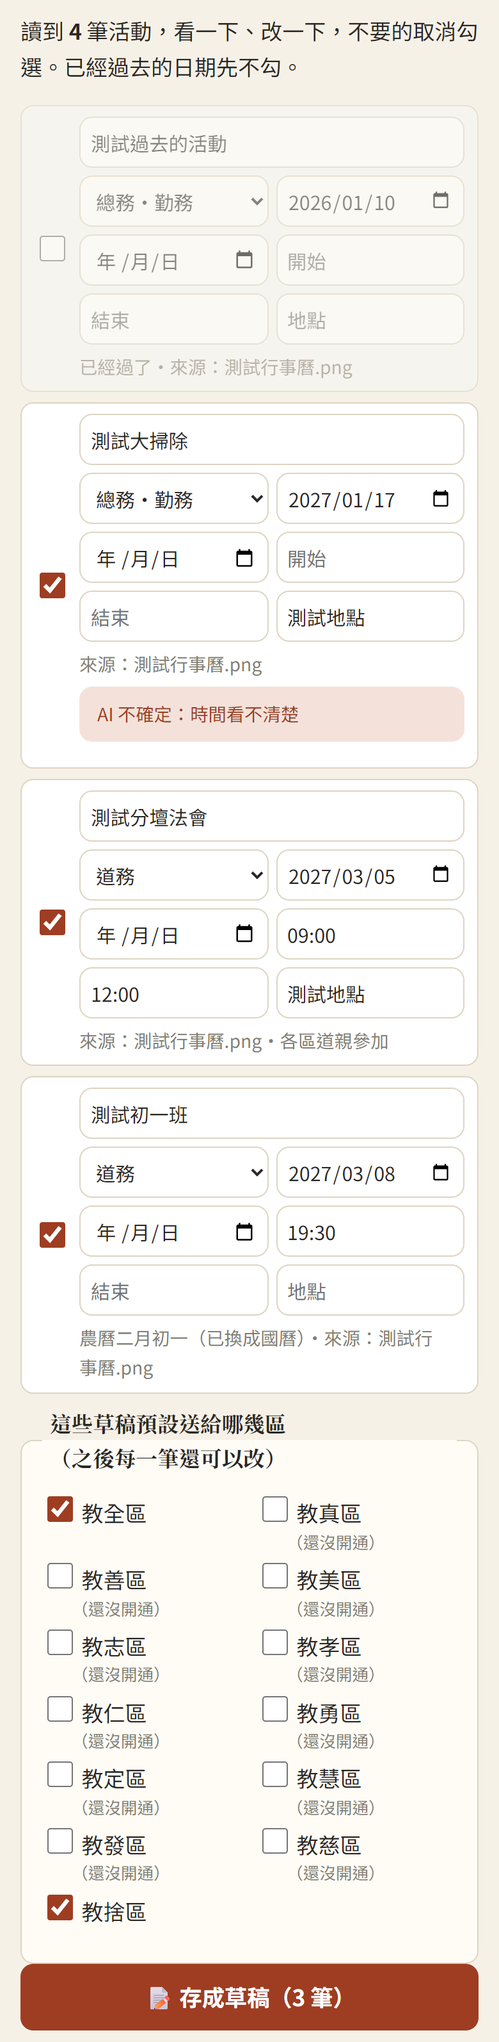
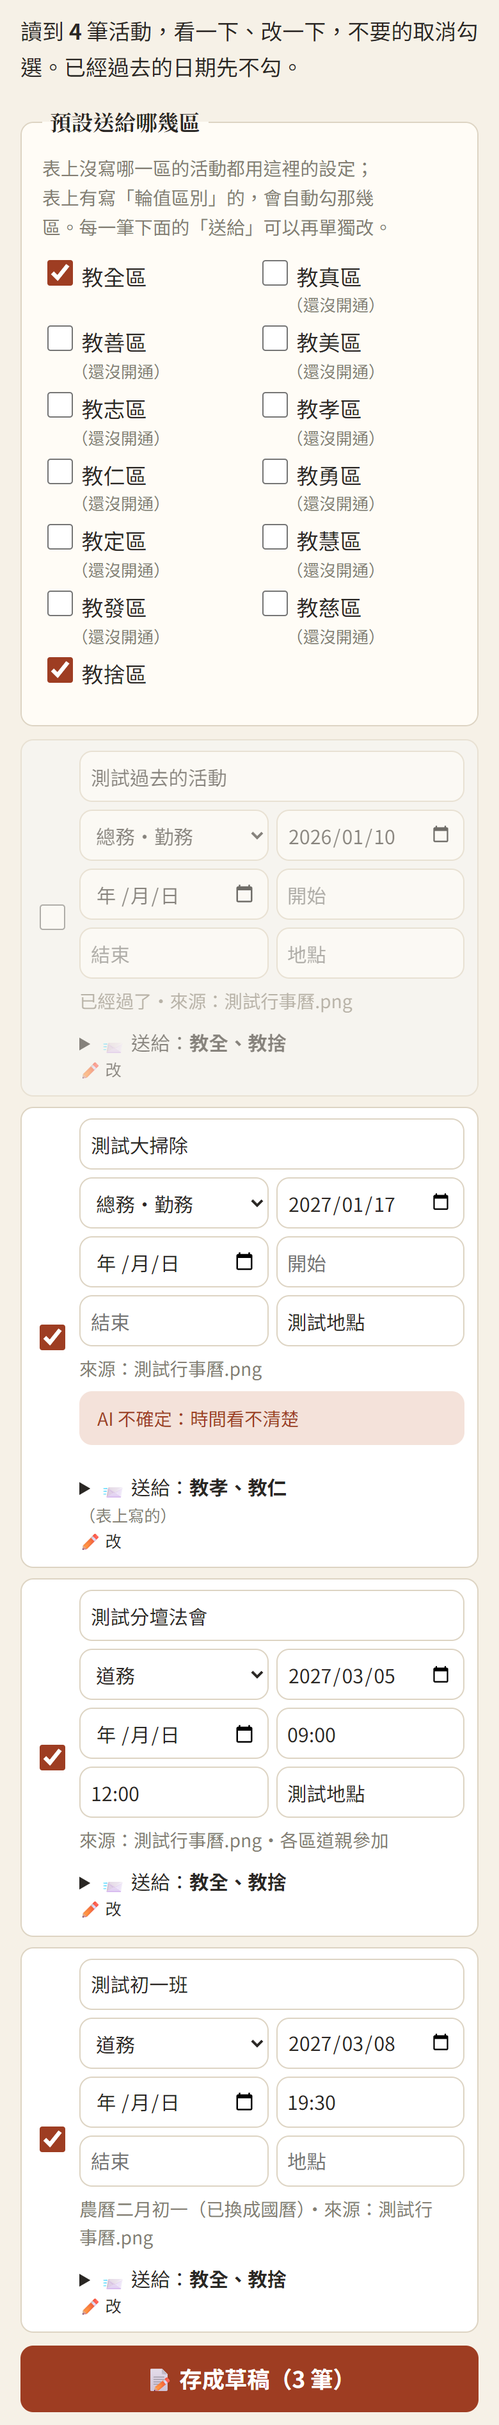
分壇從檔案匯入：每筆可選送給哪幾區，表上有寫輪值區別的自動勾；預設選區移到清單上面

diff --git a/js/admin-hq.js b/js/admin-hq.js
@@ -327,6 +327,20 @@
       <p class="hint">檔案會交給 Google 的 AI 讀（和「從照片新增」一樣）。AI 可能看錯，日期、時間請一定要看過。人名、電話不會整理進來。</p>
       <div data-progress></div>
       <div data-rows></div>`;
+    /** AI 寫的區名（「仁孝」「教志區」「全部」）→ 區代號；「仁孝」這種兩個字的，一個字一區 */
+    function regionsOf(names) {
+      const out = new Set();
+      (Array.isArray(names) ? names : []).forEach((s) => {
+        s = String(s || '').replace(/\s/g, '');
+        if (!s) return;
+        if (/全部|各區/.test(s)) { data.targets.forEach((t) => out.add(t.code)); return; }
+        const full = data.targets.find((t) => s === t.name || s + '區' === t.name || '教' + s + '區' === t.name || '教' + s === t.name);
+        if (full) { out.add(full.code); return; }
+        s.replace(/[教區]/g, '').split('').forEach((ch) => { const t = data.targets.find((y) => y.name === '教' + ch + '區'); if (t) out.add(t.code); });
+      });
+      return data.targets.map((t) => t.code).filter((c) => out.has(c));
+    }
+    const regionNames = (codes) => (codes.length === data.targets.length ? '全部 ' + codes.length + ' 區' : codes.length ? data.targets.filter((t) => codes.indexOf(t.code) !== -1).map((t) => t.name.replace(/區$/, '')).join('、') : '還沒選');
     let files = [];
     const fin = body.querySelector('[data-files]');
     fin.addEventListener('change', () => {
@@ -365,7 +379,8 @@
         if (!start && x.lunarDate) start = lunarToSolar(x.lunarDate, x.lunarYear);
         const end = /^\d{4}-\d{2}-\d{2}$/.test(x.end || '') && x.end >= start ? x.end : start;
         const tt = (v) => { const t = Fmt.parseTime(String(v || '')); return t || ''; };
-        return { title: String(x.title || '').trim().slice(0, 40), category: ['勤務', '道務', '教育'].indexOf(x.category) !== -1 ? x.category : '勤務', start, end, startTime: tt(x.startTime), endTime: tt(x.endTime), location: String(x.location || '').slice(0, 40), description: String(x.description || '').slice(0, 2000), lunar: x.lunarDate || '', uncertain: Array.isArray(x.uncertain) ? x.uncertain.join('；') : '', source: x.source };
+        const named = regionsOf(x.regions);
+        return { regions: named.length ? named : st.regions.slice(), byAi: named.length > 0, title: String(x.title || '').trim().slice(0, 40), category: ['勤務', '道務', '教育'].indexOf(x.category) !== -1 ? x.category : '勤務', start, end, startTime: tt(x.startTime), endTime: tt(x.endTime), location: String(x.location || '').slice(0, 40), description: String(x.description || '').slice(0, 2000), lunar: x.lunarDate || '', uncertain: Array.isArray(x.uncertain) ? x.uncertain.join('；') : '', source: x.source };
       }).filter((x) => { const k = x.title + '|' + x.start; if (!x.title || seen.has(k)) return false; seen.add(k); return true; })
         .sort((a, b) => (a.start || '9999').localeCompare(b.start || '9999'));
       rows.forEach((x) => { x.pick = !!x.start && x.start >= today; });
@@ -378,6 +393,11 @@
       if (!rows.length) { box.innerHTML = ''; return; }
       const n = rows.filter((x) => x.pick).length;
       box.innerHTML = `
+        <fieldset class="form-block">
+          <legend>預設送給哪幾區</legend>
+          <p class="hint">表上沒寫哪一區的活動都用這裡的設定；表上有寫「輪值區別」的，會自動勾那幾區。每一筆下面的「送給」可以再單獨改。</p>
+          <div class="hq-regions">${data.targets.map((t) => `<label class="check"><input type="checkbox" data-region="${t.code}"${st.regions.indexOf(t.code) !== -1 ? ' checked' : ''}> ${esc(t.name)}${t.open ? '' : '<small class="muted">（還沒開通）</small>'}</label>`).join('')}</div>
+        </fieldset>
         <div class="hq-import-list">${rows.map((x, i) => `
           <div class="hq-import-row${x.pick ? '' : ' is-off'}${x.start && x.start < today ? ' is-past' : ''}" data-i="${i}">
             <label class="check"><input type="checkbox" data-k="pick"${x.pick ? ' checked' : ''}></label>
@@ -393,12 +413,12 @@
               </div>
               <small class="muted">${x.lunar ? '農曆' + esc(x.lunar) + (x.start ? '（已換成國曆）' : '（換不出國曆，請自己填日期）') + '・' : ''}${x.start && x.start < today ? '已經過了・' : ''}來源：${esc(x.source)}${x.description ? '・' + esc(x.description.slice(0, 80)) : ''}</small>
               ${x.uncertain ? `<small class="form-error">AI 不確定：${esc(x.uncertain)}</small>` : ''}
+              <details class="hq-import-to"${x.regions.length ? '' : ' open'}>
+                <summary>📨 送給：<strong${x.regions.length ? '' : ' class="form-error"'}>${esc(regionNames(x.regions))}</strong>${x.byAi && !x.custom ? '<small class="muted">（表上寫的）</small>' : ''} <small>✏ 改</small></summary>
+                <div class="hq-regions">${data.targets.map((t) => `<label class="check"><input type="checkbox" data-row-region="${t.code}"${x.regions.indexOf(t.code) !== -1 ? ' checked' : ''}> ${esc(t.name)}</label>`).join('')}</div>
+              </details>
             </div>
           </div>`).join('')}</div>
-        <fieldset class="form-block">
-          <legend>這些草稿預設送給哪幾區（之後每一筆還可以改）</legend>
-          <div class="hq-regions">${data.targets.map((t) => `<label class="check"><input type="checkbox" data-region="${t.code}"${st.regions.indexOf(t.code) !== -1 ? ' checked' : ''}> ${esc(t.name)}${t.open ? '' : '<small class="muted">（還沒開通）</small>'}</label>`).join('')}</div>
-        </fieldset>
         <div class="form-error" data-error hidden></div>
         <button type="button" class="btn btn-primary btn-block" data-save${n ? '' : ' disabled'}>📝 存成草稿（${n} 筆）</button>`;
       box.querySelectorAll('[data-i]').forEach((row) => {
@@ -409,14 +429,28 @@
           x[k] = el.value;
           if ((k === 'startTime' || k === 'endTime') && el.value) { const t = Fmt.parseTime(el.value); if (t) { x[k] = t; el.value = t; } }
         }));
+        row.querySelectorAll('[data-row-region]').forEach((el) => el.addEventListener('change', () => {
+          x.regions = [...row.querySelectorAll('[data-row-region]:checked')].map((y) => y.dataset.rowRegion);
+          x.custom = true;
+          const s = row.querySelector('.hq-import-to summary strong');
+          s.textContent = regionNames(x.regions);
+          s.className = x.regions.length ? '' : 'form-error';
+          const m = row.querySelector('.hq-import-to summary .muted'); if (m) m.remove();
+        }));
       });
-      box.querySelectorAll('[data-region]').forEach((el) => el.addEventListener('change', () => { st.regions = [...box.querySelectorAll('[data-region]:checked')].map((y) => y.dataset.region); }));
+      box.querySelectorAll('[data-region]').forEach((el) => el.addEventListener('change', () => {
+        st.regions = [...box.querySelectorAll('[data-region]:checked')].map((y) => y.dataset.region);
+        rows.forEach((x) => { if (!x.byAi && !x.custom) x.regions = st.regions.slice(); });
+        const y = scrollY; drawRows(); scrollTo(0, y);
+      }));
       box.querySelector('[data-save]').addEventListener('click', async () => {
         const err = box.querySelector('[data-error]');
         err.hidden = true;
-        const items = rows.filter((x) => x.pick).map((x) => ({ title: x.title, category: x.category, start: x.start, end: x.end || x.start, startTime: x.startTime, endTime: x.endTime, location: x.location, description: x.description, positions: [], quotaMode: 'none', regions: st.regions, source: x.source }));
+        const items = rows.filter((x) => x.pick).map((x) => ({ title: x.title, category: x.category, start: x.start, end: x.end || x.start, startTime: x.startTime, endTime: x.endTime, location: x.location, description: x.description, positions: [], quotaMode: 'none', regions: x.regions, source: x.source }));
         const noDate = items.filter((x) => !x.start);
         if (noDate.length) { err.textContent = '有 ' + noDate.length + ' 筆沒有日期，請填日期或取消勾選：' + noDate.map((x) => x.title).join('、'); err.hidden = false; return; }
+        const noRegion = items.filter((x) => !x.regions.length);
+        if (noRegion.length) { err.textContent = '有 ' + noRegion.length + ' 筆還沒選送給哪幾區：' + noRegion.map((x) => x.title).join('、'); err.hidden = false; return; }
         Busy.show('存成草稿中⋯');
         try {
           const r = await Api.admin('hqSaveDrafts', { items });

diff --git a/index.html b/index.html
@@ -23,7 +23,7 @@
   <link rel="preconnect" href="https://fonts.googleapis.com">
   <link rel="preconnect" href="https://fonts.gstatic.com" crossorigin>
   <link href="https://fonts.googleapis.com/css2?family=Noto+Sans+TC:wght@400;500;700&family=Noto+Serif+TC:wght@600;700&display=swap" rel="stylesheet">
-  <link rel="stylesheet" href="css/app.css?v=20261122p">
+  <link rel="stylesheet" href="css/app.css?v=20261122q">
   <script>try { var t = localStorage.getItem('duty-calendar:text-size'); if (t === 'l' || t === 'xl') document.documentElement.classList.add('text-' + t); } catch (e) {}</script>
 </head>
 <body class="splash-on">
@@ -118,67 +118,67 @@
   <script src="https://cdn.jsdelivr.net/npm/fullcalendar@6.1.21/index.global.min.js"></script>
   <script src="https://cdn.jsdelivr.net/npm/@fullcalendar/core@6.1.21/locales/zh-tw.global.min.js"></script>
   <!-- 改了 js、css 後把 ?v= 的日期換新，手機才不會用到舊的檔案（GitHub Pages 會快取 10 分鐘） -->
-  <script src="js/site.js?v=20261122p"></script>
-  <script src="js/region.js?v=20261122p"></script>
-  <script src="js/config.js?v=20261122p"></script>
-  <script src="js/api.js?v=20261122p"></script>
-  <script src="js/format.js?v=20261122p"></script>
-  <script src="js/member-suggest.js?v=20261122p"></script>
-  <script src="js/member-file.js?v=20261122p"></script>
-  <script src="js/family.js?v=20261122p"></script>
-  <script src="js/lunar-util.js?v=20261122p"></script>
-  <script src="js/date-list.js?v=20261122p"></script>
-  <script src="js/share.js?v=20261122p"></script>
-  <script src="js/addcal.js?v=20261122p"></script>
-  <script src="js/duty-cache.js?v=20261122p"></script>
-  <script src="js/thanks-board.js?v=20261122p"></script>
-  <script src="js/calendar.js?v=20261122p"></script>
-  <script src="js/confirm.js?v=20261122p"></script>
-  <script src="js/reschedule.js?v=20261122p"></script>
-  <script src="js/signup.js?v=20261122p"></script>
-  <script src="js/duty-images.js?v=20261122p"></script>
-  <script src="js/roster-grid.js?v=20261122p"></script>
-  <script src="js/grid-page.js?v=20261122p"></script>
-  <script src="js/grid-image.js?v=20261122p"></script>
-  <script src="js/thanks-image.js?v=20261122p"></script>
-  <script src="js/celebrate.js?v=20261122p"></script>
-  <script src="js/duty.js?v=20261122p"></script>
-  <script src="js/mine.js?v=20261122p"></script>
-  <script src="js/venue-hours.js?v=20261122p"></script>
-  <script src="js/venue.js?v=20261122p"></script>
-  <script src="js/push.js?v=20261122p"></script>
-  <script src="js/admin.js?v=20261122p"></script>
-  <script src="js/admin-pages.js?v=20261122p"></script>
-  <script src="js/draft-editor.js?v=20261122p"></script>
-  <script src="js/group-fair.js?v=20261122p"></script>
-  <script src="js/admin-duties.js?v=20261122p"></script>
-  <script src="js/admin-accounts.js?v=20261122p"></script>
-  <script src="js/admin-site.js?v=20261122p"></script>
-  <script src="js/region-setup.js?v=20261122p"></script>
-  <script src="js/import-parse.js?v=20261122p"></script>
-  <script src="js/admin-import.js?v=20261122p"></script>
-  <script src="js/admin-people.js?v=20261122p"></script>
-  <script src="js/admin-hq.js?v=20261122p"></script>
-  <script src="js/stats-calc.js?v=20261122p"></script>
-  <script src="js/edu-stats.js?v=20261122p"></script>
-  <script src="js/admin-goals.js?v=20261122p"></script>
-  <script src="js/admin-venue.js?v=20261122p"></script>
-  <script src="js/admin-push.js?v=20261122p"></script>
-  <script src="js/tutorial.js?v=20261122p"></script>
-  <script src="js/help.js?v=20261122p"></script>
-  <script src="js/rollcall.js?v=20261122p"></script>
-  <script src="js/stats-export.js?v=20261122p"></script>
-  <script src="js/repair.js?v=20261122p"></script>
-  <script src="js/activity-report.js?v=20261122p"></script>
-  <script src="js/member-stats.js?v=20261122p"></script>
-  <script src="js/admin-stats.js?v=20261122p"></script>
-  <script src="js/admin-report.js?v=20261122p"></script>
-  <script src="js/admin-recent-signups.js?v=20261122p"></script>
-  <script src="js/admin-notice.js?v=20261122p"></script>
-  <script src="js/admin-notify.js?v=20261122p"></script>
-  <script src="js/history-parse.js?v=20261122p"></script>
-  <script src="js/admin-history.js?v=20261122p"></script>
-  <script src="js/easy-mode.js?v=20261122p"></script>
-  <script src="js/app.js?v=20261122p"></script>
+  <script src="js/site.js?v=20261122q"></script>
+  <script src="js/region.js?v=20261122q"></script>
+  <script src="js/config.js?v=20261122q"></script>
+  <script src="js/api.js?v=20261122q"></script>
+  <script src="js/format.js?v=20261122q"></script>
+  <script src="js/member-suggest.js?v=20261122q"></script>
+  <script src="js/member-file.js?v=20261122q"></script>
+  <script src="js/family.js?v=20261122q"></script>
+  <script src="js/lunar-util.js?v=20261122q"></script>
+  <script src="js/date-list.js?v=20261122q"></script>
+  <script src="js/share.js?v=20261122q"></script>
+  <script src="js/addcal.js?v=20261122q"></script>
+  <script src="js/duty-cache.js?v=20261122q"></script>
+  <script src="js/thanks-board.js?v=20261122q"></script>
+  <script src="js/calendar.js?v=20261122q"></script>
+  <script src="js/confirm.js?v=20261122q"></script>
+  <script src="js/reschedule.js?v=20261122q"></script>
+  <script src="js/signup.js?v=20261122q"></script>
+  <script src="js/duty-images.js?v=20261122q"></script>
+  <script src="js/roster-grid.js?v=20261122q"></script>
+  <script src="js/grid-page.js?v=20261122q"></script>
+  <script src="js/grid-image.js?v=20261122q"></script>
+  <script src="js/thanks-image.js?v=20261122q"></script>
+  <script src="js/celebrate.js?v=20261122q"></script>
+  <script src="js/duty.js?v=20261122q"></script>
+  <script src="js/mine.js?v=20261122q"></script>
+  <script src="js/venue-hours.js?v=20261122q"></script>
+  <script src="js/venue.js?v=20261122q"></script>
+  <script src="js/push.js?v=20261122q"></script>
+  <script src="js/admin.js?v=20261122q"></script>
+  <script src="js/admin-pages.js?v=20261122q"></script>
+  <script src="js/draft-editor.js?v=20261122q"></script>
+  <script src="js/group-fair.js?v=20261122q"></script>
+  <script src="js/admin-duties.js?v=20261122q"></script>
+  <script src="js/admin-accounts.js?v=20261122q"></script>
+  <script src="js/admin-site.js?v=20261122q"></script>
+  <script src="js/region-setup.js?v=20261122q"></script>
+  <script src="js/import-parse.js?v=20261122q"></script>
+  <script src="js/admin-import.js?v=20261122q"></script>
+  <script src="js/admin-people.js?v=20261122q"></script>
+  <script src="js/admin-hq.js?v=20261122q"></script>
+  <script src="js/stats-calc.js?v=20261122q"></script>
+  <script src="js/edu-stats.js?v=20261122q"></script>
+  <script src="js/admin-goals.js?v=20261122q"></script>
+  <script src="js/admin-venue.js?v=20261122q"></script>
+  <script src="js/admin-push.js?v=20261122q"></script>
+  <script src="js/tutorial.js?v=20261122q"></script>
+  <script src="js/help.js?v=20261122q"></script>
+  <script src="js/rollcall.js?v=20261122q"></script>
+  <script src="js/stats-export.js?v=20261122q"></script>
+  <script src="js/repair.js?v=20261122q"></script>
+  <script src="js/activity-report.js?v=20261122q"></script>
+  <script src="js/member-stats.js?v=20261122q"></script>
+  <script src="js/admin-stats.js?v=20261122q"></script>
+  <script src="js/admin-report.js?v=20261122q"></script>
+  <script src="js/admin-recent-signups.js?v=20261122q"></script>
+  <script src="js/admin-notice.js?v=20261122q"></script>
+  <script src="js/admin-notify.js?v=20261122q"></script>
+  <script src="js/history-parse.js?v=20261122q"></script>
+  <script src="js/admin-history.js?v=20261122q"></script>
+  <script src="js/easy-mode.js?v=20261122q"></script>
+  <script src="js/app.js?v=20261122q"></script>
 </body>
 </html>

diff --git a/tools/help-shots.js b/tools/help-shots.js
@@ -374,7 +374,7 @@ async function hqShots(c, only) {
       const orig = Api.admin; Api.admin = (a, p, r) => (a === 'hqImportAi' ? new Promise((ok) => setTimeout(() => ok({ items: [
         { title: '測試分壇法會', category: '道務', start: '2027-03-05', startTime: '0900', endTime: '12:00', location: '測試地點', description: '各區道親參加' },
         { title: '測試初一班', category: '道務', lunarDate: '二月初一', lunarYear: 2027, startTime: '19:30' },
-        { title: '測試大掃除', category: '勤務', start: '2027-01-17', location: '測試地點', uncertain: ['時間看不清楚'] },
+        { title: '測試大掃除', category: '勤務', start: '2027-01-17', location: '測試地點', regions: ['仁孝'], uncertain: ['時間看不清楚'] },
         { title: '測試過去的活動', category: '勤務', start: '2026-01-10' }] }), 300)) : orig(a, p, r));
       const cv = document.createElement('canvas'); cv.width = 400; cv.height = 300; cv.getContext('2d').fillRect(0, 0, 10, 10);
       const blob = await new Promise((ok) => cv.toBlob(ok, 'image/png'));
@@ -384,7 +384,7 @@ async function hqShots(c, only) {
       const rows = [...document.querySelectorAll('.hq-import-row')]; if (rows.length !== 4) throw new Error('INFO rows=' + rows.length + ' ' + document.querySelector('[data-progress]').innerText);
       const lunar = rows.find((x) => x.querySelector('[data-k=title]').value === '測試初一班').querySelector('[data-k=start]').value;
       const past = rows.find((x) => x.querySelector('[data-k=title]').value === '測試過去的活動').querySelector('[data-k=pick]').checked;
-      window.__info = 'lunar=' + lunar + ' pastPicked=' + past; if (lunar !== '2027-03-08' || past) throw new Error('INFO ' + window.__info);`);
+      const to = rows.find((x) => x.querySelector('[data-k=title]').value === '測試大掃除').querySelector('.hq-import-to strong').textContent; if (to !== '教孝、教仁' && to !== '教仁、教孝') throw new Error('INFO to=' + to); window.__info = 'lunar=' + lunar + ' pastPicked=' + past; if (lunar !== '2027-03-08' || past) throw new Error('INFO ' + window.__info);`);
     if (want('hq-import')) {
       await shot(c, path.join(OUT, 'hq-import.png'), PREP + `const a = document.querySelector('[data-progress]'); a.scrollIntoView(); const r = a.getBoundingClientRect(); const e = document.querySelector('[data-save]').getBoundingClientRect(); return { x: 0, y: r.top + scrollY - 10, width: innerWidth, height: Math.min(2600, e.bottom - r.top + 20) };`);
       console.log('✓ hq-import');

diff --git a/css/app.css b/css/app.css
@@ -1052,6 +1052,8 @@ button.more-item { width: 100%; text-align: left; font: inherit; cursor: pointer
 .hq-import-fields small { display: block; }
 .hq-card { width: 100%; text-align: left; font: inherit; cursor: pointer; }
 .hq-form .form-grid-2, .admin-form .form-grid-2 { display: grid; grid-template-columns: 1fr 1fr; gap: 0 12px; }
+.hq-import-to summary { cursor: pointer; font-size: .95rem; padding: 2px 0; }
+.hq-import-to[open] summary { margin-bottom: 4px; }
 .hq-regions { display: grid; grid-template-columns: repeat(auto-fill, minmax(150px, 1fr)); gap: 4px 12px; }
 .hq-regions label.check { display: block; white-space: normal; line-height: 1.5; }
 .hq-regions label.check small { display: block; margin-left: 1.8em; font-size: .8rem; }

diff --git a/docs/spec.md b/docs/spec.md
@@ -332,7 +332,7 @@
   - **開分派**：名稱、類別（總務・勤務／道務／教育＝送給各區哪一組的組長）、性質（依類別）、日期（可跨天）、時間（可打 0830）、地點、服裝、說明、了愿項目（「、」分開，空白＝參加）、報名截止日、送給哪幾區（教全區＋12 區，還沒開通的標「收不到」，「全選已開通的」）、名額（不限／分壇分配：每區填數字，空白＝那區不限／各區自己報）。存檔馬上送出（worker/src/hq.js hqSave → 各區 Durable Object hqRpc → apps-script/Hq.gs hqDeliver_），記下每區送到沒有；修改後重新送，取消勾的區收回（hqWithdraw_）。分派存在分壇的指令碼屬性 HQ_CAMPAIGNS。
   - **總表**（hqSummary → 各區 hqReport_）：每區狀態（還沒看／看過了，還沒放／已放到行事曆／不參加＋原因／已收回／還沒開通）、名額、已報名（陪同不算）、還差；點人數看名字（姓名、身分、佛堂、項目，不含電話）；上面合計；「⬇ 匯出 Excel」（總計＋每區一個分頁）；「📋 提醒還沒處理的區」產生文字（複製／傳到 LINE）；「✏ 修改」「🗑 刪除分派」（各區收回，已放上去的勤務留著）。
   - **各區**（Hq.gs，收件匣存指令碼屬性 HQ_INBOX）：後台首頁最上面「📥 宏教分壇分派：N 件待處理」（新的、看過還沒放、分壇有更新），「去看看」→ #/admin/hqinbox 收件匣；總管理者看全部，總務・勤務／道務／教育帳號只看自己類別，唯讀看不到。點開＝看過（記誰、何時）；「📅 放到本區行事曆」：可填本區補充說明、負責組，各區自己報名額的要填幾位 → 新增一筆勤務（來源欄＝HQ:分派代號，說明＝分壇說明＋本區名額＋【本區補充】；只有一個了愿項目時名額＝最多人數）；已放上去的同一個按鈕改本區補充。「本區不參加」要寫原因；已有人報名不能不參加；沒人報名的會從行事曆拿下來。分壇改內容時已放上去的勤務自動照新內容改（以總管理者身分 adminUpdateDuty_，失敗記 syncError 顯示），收件匣標「分壇有更新」。分壇分派的勤務在勤務管理不能直接修改、刪除（guardHqDuty_），行事曆卡片標 📣、報名頁標「📣 宏教分壇分派」。
-  - **📄 從檔案匯入行事曆（2026/11/22）**：分派清單「📄 從檔案匯入行事曆」（#/admin/hq/import）：選 PDF、Word（.docx）、Excel、照片（可多個），PDF 可填只讀第幾頁、可給 AI 補充說明。瀏覽器先拆成一批一批：照片縮成 JPEG（最寬 1600）；PDF 每頁先取文字（NFKC、去掉中文字間空白），有文字（80 字以上）的頁送文字（每批約 12000 字），掃描的頁用 pdf.js 畫成 JPEG、每批 4 頁；Word／Excel 讀成文字（MemberFile.readFile）。每批呼叫 hqImportAi（Gemini；分壇沒有金鑰，向教全區借：Durable Object 之間的 hqAiKey，網路上叫不到；提示 hqImportPrompt_：只整理有日期的活動、不抄人名電話、農曆只填 lunarDate＋lunarYear、同活動多日期各一筆、最多 150 筆），顯示進度；額度用完或金鑰問題就停。結果：農曆用 lunar-javascript 換國曆、同名同天去重、照日期排、過去的日期先不勾；每筆可改名稱、類別、日期、結束日、時間、地點，顯示來源（檔名第幾頁）、說明開頭、AI 不確定的地方；下面選預設送給哪幾區；「📝 存成草稿」（hqSaveDrafts，一次最多 200 筆，沒日期的擋）。**草稿**（status＝draft）：各區看不到、不送、總表不問各區；清單排最前面、虛線框、「📝 草稿」標籤、顯示「預計送給 N 區」；點進去「✏ 補資料、送出」（表單有「送出給各區」和「📝 先存成草稿（不送出）」）、「🗑 刪除草稿」；送出後變成一般分派（sent），不能再變回草稿；開新分派也可以先存草稿。
+  - **📄 從檔案匯入行事曆（2026/11/22）**：分派清單「📄 從檔案匯入行事曆」（#/admin/hq/import）：選 PDF、Word（.docx）、Excel、照片（可多個），PDF 可填只讀第幾頁、可給 AI 補充說明。瀏覽器先拆成一批一批：照片縮成 JPEG（最寬 1600）；PDF 每頁先取文字（NFKC、去掉中文字間空白），有文字（80 字以上）的頁送文字（每批約 12000 字），掃描的頁用 pdf.js 畫成 JPEG、每批 4 頁；Word／Excel 讀成文字（MemberFile.readFile）。每批呼叫 hqImportAi（Gemini；分壇沒有金鑰，向教全區借：Durable Object 之間的 hqAiKey，網路上叫不到；提示 hqImportPrompt_：只整理有日期的活動、不抄人名電話、農曆只填 lunarDate＋lunarYear、同活動多日期各一筆、最多 150 筆），顯示進度；額度用完或金鑰問題就停。結果：農曆用 lunar-javascript 換國曆、同名同天去重、照日期排、過去的日期先不勾；每筆可改名稱、類別、日期、結束日、時間、地點，顯示來源（檔名第幾頁）、說明開頭、AI 不確定的地方；清單上面選預設送給哪幾區；表上有寫區別（輪值區別、負責區）的 AI 填 regions，自動換成區代號（「仁孝」這種一個字一區：教仁＋教孝；「全部」＝全部），那幾筆就送那幾區；每筆下面「📨 送給」可以單獨改（沒選區的擋）；「📝 存成草稿」（hqSaveDrafts，一次最多 200 筆，沒日期的擋）。**草稿**（status＝draft）：各區看不到、不送、總表不問各區；清單排最前面、虛線框、「📝 草稿」標籤、顯示「預計送給 N 區」；點進去「✏ 補資料、送出」（表單有「送出給各區」和「📝 先存成草稿（不送出）」）、「🗑 刪除草稿」；送出後變成一般分派（sent），不能再變回草稿；開新分派也可以先存草稿。
 - **🎤 用講的報名（2026/11/22 做了、同一天拿掉）**：曾經做過首頁「🎤 用講的報名」（瀏覽器語音辨識＋比對勤務名稱、日期、成員名單，再打開報名表帶入）。試用後語音辨識的字（尤其人名）錯太多，使用者決定不要，程式、按鈕、說明都已移除；之後不要再加回來，除非使用者再提。
 - **填了佛堂自動帶入勤務了愿組（2026/11/22）**：勤務了愿組是依佛堂分的，templeGroupMap_ 看同一佛堂有設組的成員，2/3 以上同一組就是那個佛堂的組（沒人設過或分不出來＝不帶）。成員存檔（佛堂有改、勤務了愿組空白）、從出勤紀錄加入、報名自動加入（待確認）、adminSetMemberExtra 改佛堂、匯入成員資料（含新增）時，勤務了愿組空白就帶入；已經有組的不蓋掉。成員編輯視窗選了佛堂、勤務了愿組空著時當場帶入並提示「已依佛堂帶入」。打掃組、拜香輪值組依人名，不自動帶。
 - **依名單設定組別（2026/11/22）**：分組頁「📋 依名單設定組別」：選分組類型、貼上「組名：名單」（一行一組，組名後面的冒號可省；「召集人、組長、佐理、組員、副組長」字樣和括號會拿掉），寫「佛堂」結尾的當佛堂、其他當姓名；「用各組的「組員」欄」把分組上的組長、佐理、組員帶進來。adminAssignGroups（總管理者、道務、教育）：組名比對時中文數字換成阿拉伯數字、去掉括號（第一組＝第1組，第五組(青年組)＝第五組），沒有的組整批擋下並列出現有的組；佛堂去掉「佛堂」兩字後相同或互相包含（高徽佛堂↔高徽公共）的成員全部設成那組；姓名（或別名）對到一位才設，同名好幾位列為分不出來；名字比佛堂優先；可選「名單上沒有的人清掉這一類組別」（只清啟用中的）；待確認的成員不動。沒有 apply＝只預覽（誰從哪組換到哪組、依佛堂或依名字、找不到的名字、對不到的佛堂、同名分不出來），按「確定設定」才寫入並記操作紀錄。
